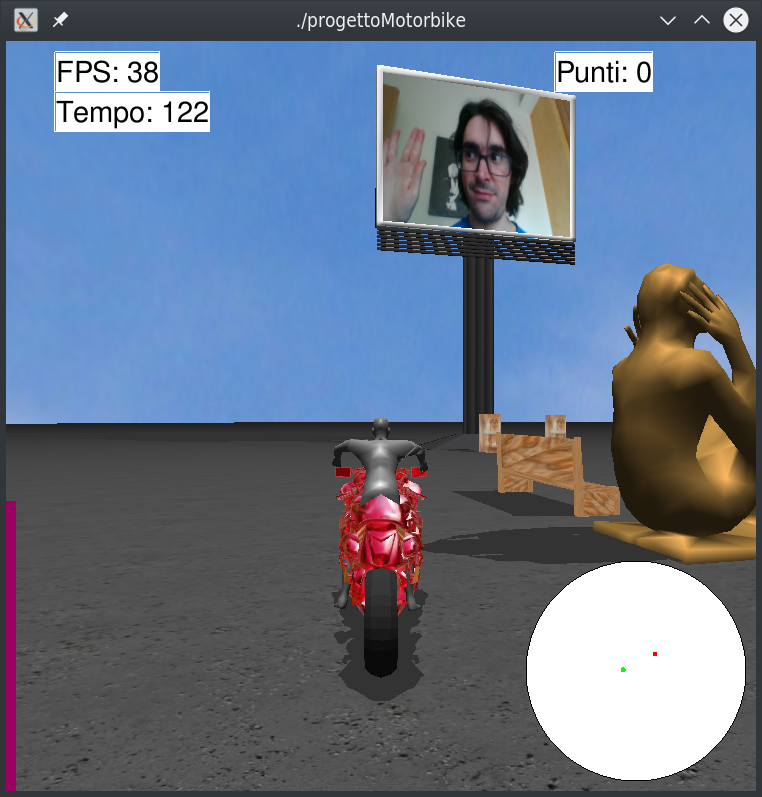
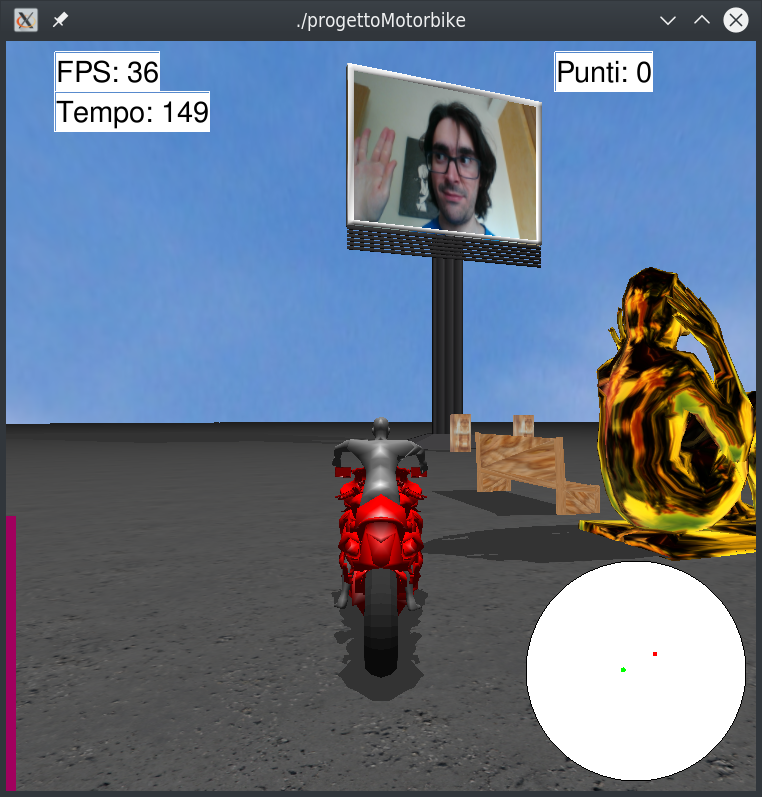
updated documentation

diff --git a/doc/documentazione.html b/doc/documentazione.html
@@ -21,7 +21,7 @@ h1   {text-align: center}
 			<ul>
 				<li><span style="font-family: monospace;">F1</span>: cicla attraverso i vari tipi di camera</li>
 				<li><span style="font-family: monospace;">F2</span>: abilita/disabilita la visualizzazione wireframe</li>
-				<li><span style="font-family: monospace;">F3</span>: abilita/disabilita l'environment mapping della carlinga della moto</li>
+				<li><span style="font-family: monospace;">F3</span>: abilita/disabilita l'environment mapping della statua</li>
 				<li><span style="font-family: monospace;">F4</span>: abilita/disabilita la luce del faro anteriore della moto</li>
 				<li><span style="font-family: monospace;">F5</span>: abilita/disabilita la visualizzazione delle ombre</li>
 			</ul>
@@ -48,14 +48,14 @@ h1   {text-align: center}
 
 	<h2>Textures</h2>
 		<p>
-			Nel gioco sono state applicate diverse textures: sul pavimento, sul tabellone, sulla carlinga della moto, sui waypoints, sulla panchina e sui barili.
+			Nel gioco sono state applicate diverse textures: sul pavimento, sul tabellone, sui waypoints, sulla panchina, sui barili e sulla statua.
 			<br>
 			Per quanto riguarda il pavimento, è stata applicata una texture specificando manualmente le coordinate texture per ogni vertice di ogni quad che costituisce il pavimento, tramite <code>glTexCoord2f</code>. Il colore della textures viene poi moltiplicato per il colore scelto per il pavimento, componente per componente.
 			<br>
 			Per quanto concerne il tabellone, è stata applicata una foto personale nella seguente maniera: viene creato un quad, tramite <code>glBegin(GL_QUADS)</code>, le cui coordinate corrispondono ai vertici del bounding box della parte superiore del tabellone (il pannello); si specificano poi manualmente le coordinate textures per ogni vertice del quad.
 
 			<figure style="text-align: center; display: block;">
-				<img src="images/tabellone_foto.png" width="400" height="300">
+				<img src="images/tabellone_foto.png" width="400" height="400">
 				<figcaption>Tabellone con la foto</figcaption>
 			</figure>
 		</p>
@@ -63,13 +63,19 @@ h1   {text-align: center}
 			Per i barili è stata invece abilitata la generazione automatica delle coordinate textures, tramite <code>glEnable(GL_TEXTURE_GEN_S)</code> e <code>glEnable(GL_TEXTURE_GEN_T)</code>, specificando poi <code>s</code> e <code>t</code>, ossia i coefficienti da usare nella corrispondente funzione per la generazione delle coordinate texture, tramite <code>glTexGenfv(GL_S, GL_OBJECT_PLANE, s)</code> e <code>glTexGenfv(GL_S, GL_OBJECT_PLANE, t)</code>. La texture generation function è scelta usando il parametro <code>GL_OBJECT_LINEAR</code> in <code>glTexGeni(GL_S, GL_TEXTURE_GEN_MODE , GL_OBJECT_LINEAR)</code>
 			e <code>glTexGeni(GL_T, GL_TEXTURE_GEN_MODE , GL_OBJECT_LINEAR)</code>. Il risultato è mostrato nella foto sottostante.
 
-			<figure style="text-align: center; display: block;">
-				<img src="images/barili_texture.png" width="35%" height="35%">
-				<figcaption>Barili con texture</figcaption>
-			</figure>
+			<div style="display: block;">
+				<figure style="text-align: center; display: inline-block;">
+					<img src="images/barili_texture.png" width="400" height="400">
+					<figcaption>Barili con texture</figcaption>
+				</figure>
+				<figure style="text-align: center; display: inline-block;">
+					<img src="images/statua_envmap.png" width="400" height="400">
+					<figcaption>Statua con environment mapping</figcaption>
+				</figure>
+			</div>
 		</p>
 		<p>
-			La texture della carlinga viene applicata usando la tecnica dell'environment mapping, specificando il parametro <code>GL_SPHERE_MAP</code> in <code>glTexGeni</code>.
+			La texture della statua viene applicata usando la tecnica dell'environment mapping, specificando il parametro <code>GL_SPHERE_MAP</code> in <code>glTexGeni</code>.
 			<br>
 			Per quanto riguarda la panchina, per avere risultati gradevoli alla vista, è stata applicata una texture ad ogni faccia/triangolo della mesh, aggiungendo al file <code>mesh.cpp</code> la funzione <code>void Mesh::RenderNxV_TexturedFaces</code>. È stata effettuata questa scelta perché la generazione automatica delle coordinate texture produceva risultati sgradevoli (la texture appariva "stretchata" e allungata eccessivamente).
 			<br>
@@ -106,7 +112,7 @@ h1   {text-align: center}
 		</p>
 		<br>
 		<p>
-			Per quanto riguarda la statua, la pompa della benzina e la pistola della pompa della benzina, sono stati settati i materiali, in modo da fare in modo che la luce si comporti in maniera diversa su queste componenti. Ciò è stato fatto specificando i parametri delle componenti ambientale, riflessa diffusa e speculare precedentemente menzionate. Qui sotto viene riportato come esempio la funzione <code>setupStatuaMaterial</code> usata per configurare il materiale della statua (bronzo):
+			Per quanto riguarda la statua, la pompa della benzina, la pistola della pompa della benzina, la carlinga della moto e i suoi cerchioni, sono stati settati i materiali, in modo da fare in modo che la luce si comporti in maniera diversa su queste componenti. Ciò è stato fatto specificando i parametri delle componenti ambientale, riflessa diffusa e speculare precedentemente menzionate. Qui sotto viene riportato come esempio la funzione <code>setupStatuaMaterial</code> usata per configurare il materiale della statua (bronzo) qualora l'environment mapping ad essa applicato venga disattivato:
 			<pre>
 			<code>
 			float mat[4] = {0.2125, 0.1275, 0.054, 1.0};
@@ -124,6 +130,11 @@ h1   {text-align: center}
 			</code>
 			</pre>
 			I valori per i materiali sono stati ottenuti dal sito <a href="http://devernay.free.fr/cours/opengl/materials.html">devernay</a>.
+
+			<figure style="text-align: center; display: block;">
+				<img src="images/statua_material.png" width="400" height="400">
+				<figcaption>Statua in bronzo senza environment mapping</figcaption>
+			</figure>
 		</p>
 
 	<h2>Waypoint</h2>
@@ -171,11 +182,11 @@ h1   {text-align: center}
 
 			<div style="display: block;">
 				<figure style="text-align: center; display: inline-block;">
-				<img src="images/stencil_on.png" width="400" height="300">
+				<img src="images/stencil_on.png" width="400" height="400">
 				<figcaption>Stencil test abilitato</figcaption>
 				</figure>
 				<figure style="text-align: center; display: inline-block;">
-					<img src="images/stencil_off2.png" width="400" height="300">
+					<img src="images/stencil_off2.png" width="400" height="400">
 					<figcaption>Stencil test disabilitato</figcaption>
 				</figure>
 			</div>
@@ -184,7 +195,7 @@ h1   {text-align: center}
 	<h2>HUD: Heads-up display</h2>
 		<p>
 			L'HUD è composto da due gruppi di elementi: il testo contenente le informazioni sul gioco (FPS, tempo rimanente, punteggio) e la minimappa/radar. <br>
-			La funzione <code>HUD_RenderText</code> fa uso a sua volta della funzione <code>SDL_GL_DrawText</code> (appresa da un esempio del Professor Casciola, nello specifico nel file <code>sdl2_OpenGL_ffp/SDL2prg2_gl/persp_cube_sdl_gl.c</code>), la quale si occupa di usare una <b>SDL_Surface</b> su cui viene scritto il testo e che viene successivamente interpretato come texture. <code>SDL_GL_DrawText</code> fa uso della libreria <b>SDL_TTF</b>, che mette a disposizione varie primitive per scrivere del testo su schermo, e delle funzioni <code>SDL_BlitSurface</code> e <code>SDL_CreateRGBSurface</code>, per creare delle <code>SDL_Surface</code> e copiare una surface su un'altra. Il font usato è <code>FreeSans.ttf</code>.
+			La funzione <code>HUD_RenderText</code> fa uso a sua volta della funzione <code>SDL_GL_DrawText</code> (appresa da un esempio del Professor Casciola, nello specifico nel filex <code>sdl2_OpenGL_ffp/SDL2prg2_gl/persp_cube_sdl_gl.c</code>), la quale si occupa di usare una <b>SDL_Surface</b> su cui viene scritto il testo e che viene successivamente interpretato come texture. <code>SDL_GL_DrawText</code> fa uso della libreria <b>SDL_TTF</b>, che mette a disposizione varie primitive per scrivere del testo su schermo, e delle funzioni <code>SDL_BlitSurface</code> e <code>SDL_CreateRGBSurface</code>, per creare delle <code>SDL_Surface</code> e copiare una surface su un'altra. Il font usato è <code>FreeSans.ttf</code>.
 		</p>
 		<p>
 			Per quanto riguarda la minimappa presente in basso a destra, è stato disegnato un cerchio e la sua cornice usando rispettivamente <code>GL_TRIANGLE_FAN</code> e <code>GL_LINE_LOOP</code>. Su questo cerchio sono stati successivamente disegnati gli indicatori della moto (in verde) e del waypoint (in rosso), facendo uso di <code>GL_POINTS</code>, previo settaggio della dimensione dei punti a 5 (tramite <code>glPointSize(5)</code>) e abilitazione dello smoothing dei punti (tramite <code>glEnable(GL_POINT_SMOOTH)</code>).
